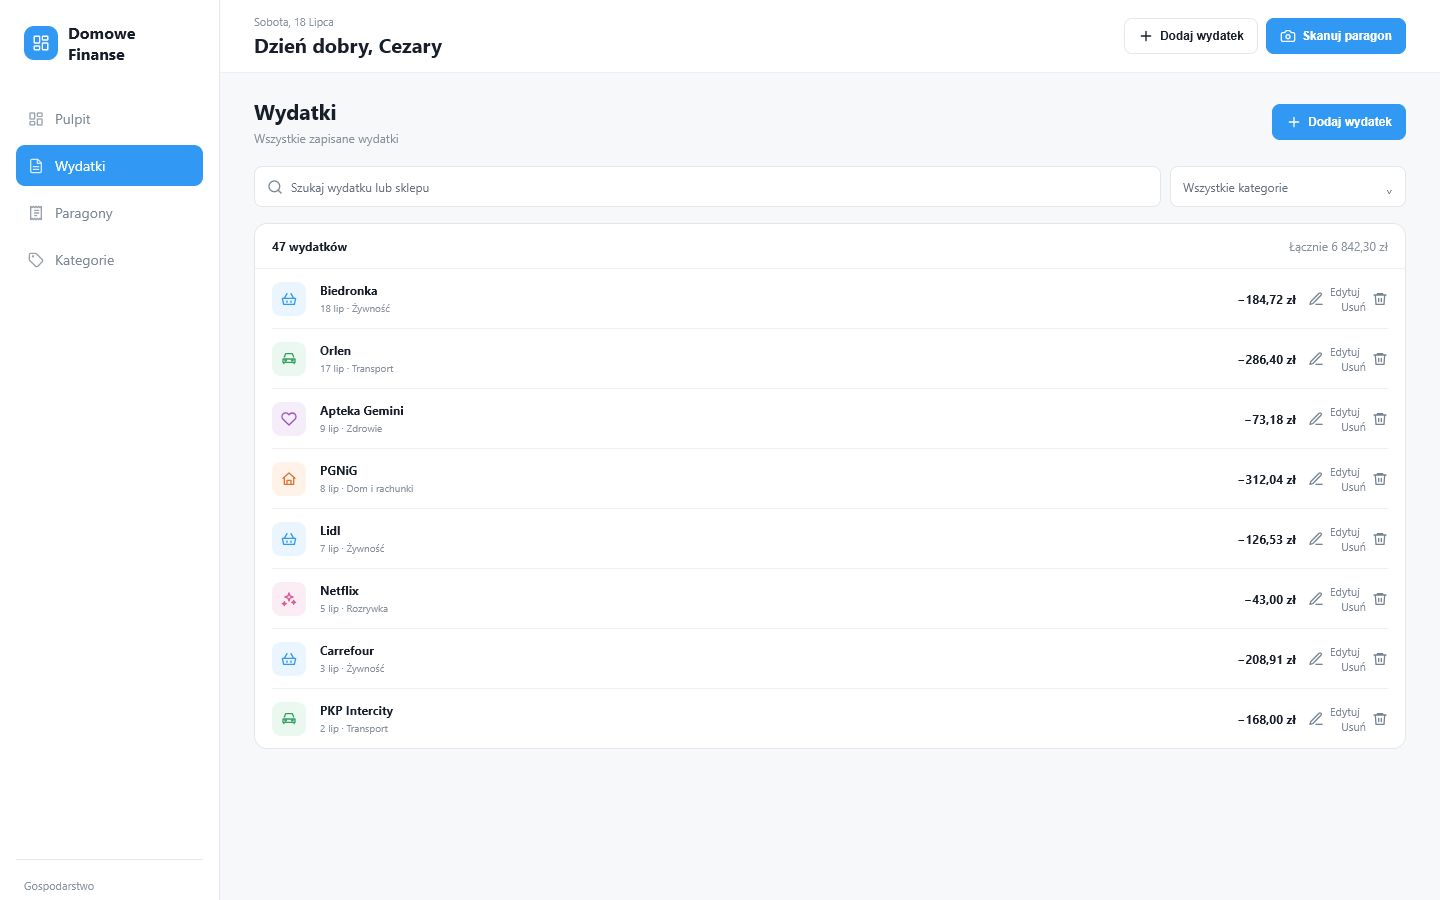
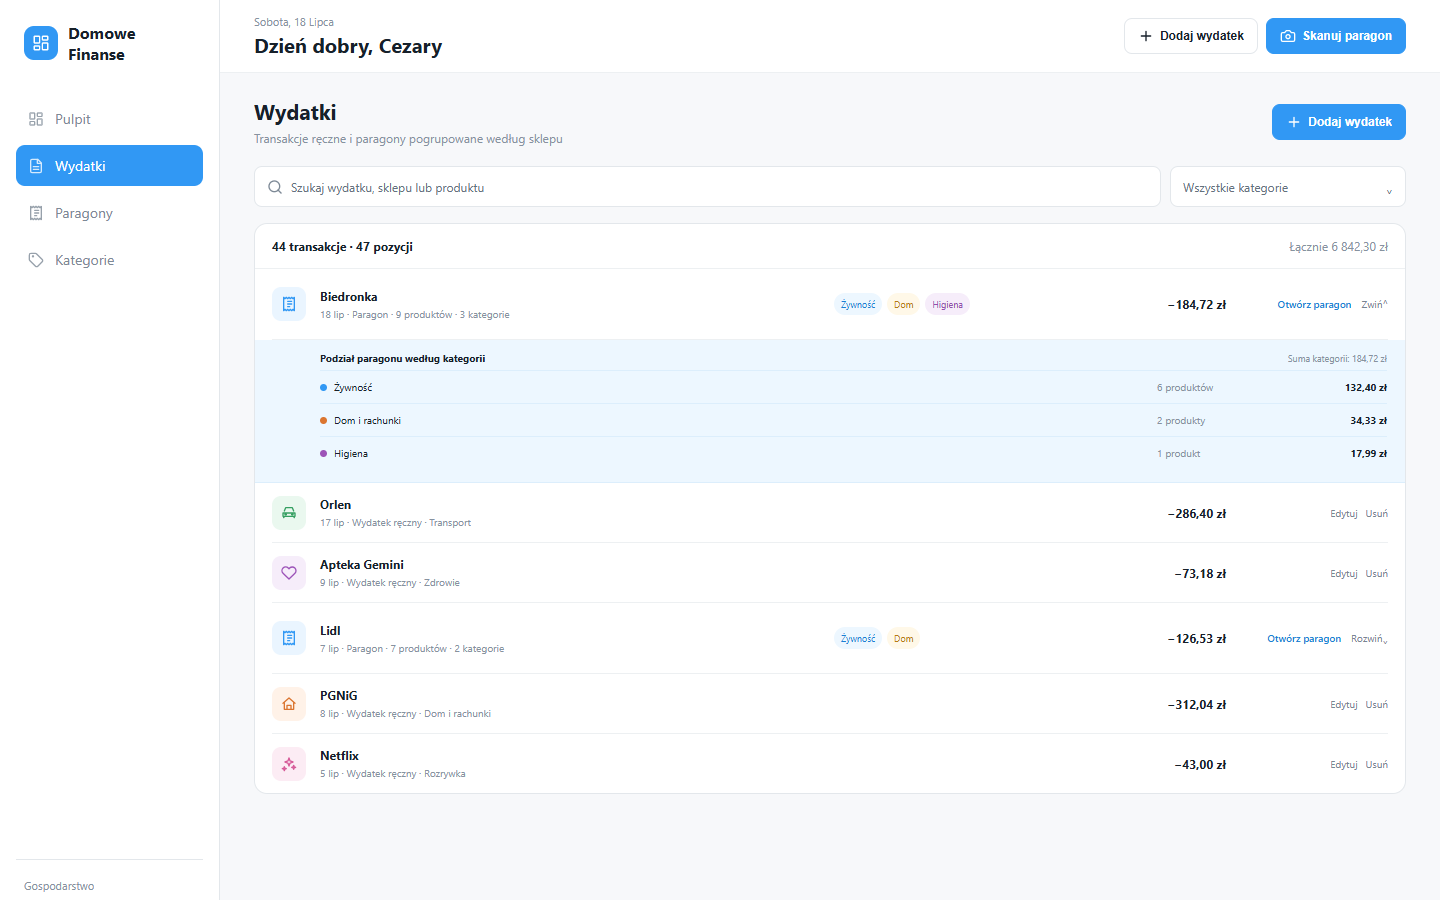
docs: update grouped receipt expense mockups

diff --git a/design/source/domowe-finanse-mockups.html b/design/source/domowe-finanse-mockups.html
@@ -87,6 +87,27 @@
   .panel-header strong { color: var(--ink); }
   .panel .expense-row { margin: 0 17px; }
   .panel .expense-row:last-child { border-bottom: 0; }
+  .receipt-expense { grid-template-columns: 36px minmax(0,1fr) 270px 110px 150px; min-height: 70px; }
+  .receipt-expense .expense-icon::before { mask-image: var(--icon-receipt); }
+  .category-chips { display: flex; flex-wrap: wrap; gap: 5px; }
+  .category-chip { background: var(--blue-soft); border-radius: 999px; color: var(--blue-dark); font-size: 9px; padding: 5px 7px; white-space: nowrap; }
+  .category-chip.home { background: var(--amber-soft); color: var(--amber); }
+  .category-chip.health { background: #f6edfa; color: #9250ae; }
+  .category-chip.more { background: #f0f2f4; color: #697686; }
+  .expense-actions { align-items: center; color: #778593; display: flex; font-size: 10px; gap: 10px; justify-content: flex-end; }
+  .expense-actions strong { color: var(--blue-dark); font-size: 10px; font-weight: 600; }
+  .receipt-breakdown { background: var(--blue-soft); border-bottom: 1px solid #dceefc; padding: 11px 18px 13px 65px; }
+  .breakdown-head { align-items: center; display: flex; justify-content: space-between; margin-bottom: 5px; }
+  .breakdown-head strong { font-size: 10px; }
+  .breakdown-head span { color: var(--muted); font-size: 9px; }
+  .breakdown-row { align-items: center; border-top: 1px solid #dceefc; display: grid; font-size: 10px; grid-template-columns: minmax(0,1fr) 120px 110px; min-height: 32px; }
+  .breakdown-row span:nth-child(2) { color: var(--muted); }
+  .breakdown-row b { font-size: 10px; font-variant-numeric: tabular-nums; text-align: right; }
+  .category-dot { border-radius: 50%; display: inline-block; height: 7px; margin-right: 7px; width: 7px; }
+  .manual-expense { grid-template-columns: 36px minmax(0,1fr) 110px 150px; }
+  .manual-expense .expense-actions { gap: 8px; }
+  .modal-note { align-items: center; background: var(--blue-soft); border-radius: 8px; color: #687687; display: flex; font-size: 10px; gap: 8px; margin-top: 14px; padding: 9px 10px; }
+  .info-mark { align-items: center; background: #8d9aaa; border-radius: 50%; color: #fff; display: inline-flex; flex: 0 0 auto; font-size: 9px; font-weight: 700; height: 16px; justify-content: center; width: 16px; }
   .modal-backdrop { align-items: center; background: rgba(23,32,42,.44); display: flex; inset: 0; justify-content: center; position: absolute; z-index: 5; }
   .modal { background: var(--paper); border-radius: 15px; box-shadow: 0 20px 50px rgba(21,35,50,.2); width: 430px; }
   .modal-head { align-items: center; border-bottom: 1px solid var(--line-soft); display: flex; justify-content: space-between; padding: 18px 20px; }
@@ -237,11 +258,11 @@
 
   <section class="screen" data-document-role="page" data-label="Wydatki — lista">
     <aside class="sidebar"><div class="brand"><span class="brand-mark"></span><span>Domowe<br>Finanse</span></div><nav class="nav"><div class="nav-item"><span class="nav-icon"></span>Pulpit</div><div class="nav-item active"><span class="nav-icon"></span>Wydatki</div><div class="nav-item"><span class="nav-icon"></span>Paragony</div><div class="nav-item"><span class="nav-icon"></span>Kategorie</div></nav><div class="sidebar-bottom"><small>Gospodarstwo</small><strong>Rodzina Kowalskich</strong><span>3 domowników</span></div></aside>
-    <main class="workspace"><header class="topbar"><div class="greeting"><span>Sobota, 18 lipca</span><h1>Dzień dobry, Cezary</h1></div><div class="top-actions"><button class="btn">Dodaj wydatek</button><button class="btn primary">Skanuj paragon</button></div></header><div class="page"><div class="page-title"><div><h2>Wydatki</h2><p>Wszystkie zapisane wydatki</p></div><button class="btn primary">Dodaj wydatek</button></div><div class="toolbar"><div class="input search">Szukaj wydatku lub sklepu</div><div class="input filter">Wszystkie kategorie <span>⌄</span></div></div><section class="panel"><div class="panel-header"><strong>47 wydatków</strong><span>Łącznie 6 842,30 zł</span></div><div class="expense-row"><span class="expense-icon">Ż</span><div><strong>Biedronka</strong><small>18 lip · Żywność</small></div><strong class="amount">−184,72 zł</strong><span class="details">Edytuj&nbsp;&nbsp; Usuń</span></div><div class="expense-row"><span class="expense-icon" style="background:#eaf8ef;color:#359f61">T</span><div><strong>Orlen</strong><small>17 lip · Transport</small></div><strong class="amount">−286,40 zł</strong><span class="details">Edytuj&nbsp;&nbsp; Usuń</span></div><div class="expense-row"><span class="expense-icon" style="background:#f6edfa;color:#9c53b8">Z</span><div><strong>Apteka Gemini</strong><small>9 lip · Zdrowie</small></div><strong class="amount">−73,18 zł</strong><span class="details">Edytuj&nbsp;&nbsp; Usuń</span></div><div class="expense-row"><span class="expense-icon" style="background:#fff2e8;color:#db7530">D</span><div><strong>PGNiG</strong><small>8 lip · Dom i rachunki</small></div><strong class="amount">−312,04 zł</strong><span class="details">Edytuj&nbsp;&nbsp; Usuń</span></div><div class="expense-row"><span class="expense-icon">Ż</span><div><strong>Lidl</strong><small>7 lip · Żywność</small></div><strong class="amount">−126,53 zł</strong><span class="details">Edytuj&nbsp;&nbsp; Usuń</span></div><div class="expense-row"><span class="expense-icon" style="background:#fcecf4;color:#d65a98">R</span><div><strong>Netflix</strong><small>5 lip · Rozrywka</small></div><strong class="amount">−43,00 zł</strong><span class="details">Edytuj&nbsp;&nbsp; Usuń</span></div><div class="expense-row"><span class="expense-icon">Ż</span><div><strong>Carrefour</strong><small>3 lip · Żywność</small></div><strong class="amount">−208,91 zł</strong><span class="details">Edytuj&nbsp;&nbsp; Usuń</span></div><div class="expense-row"><span class="expense-icon" style="background:#eaf8ef;color:#359f61">T</span><div><strong>PKP Intercity</strong><small>2 lip · Transport</small></div><strong class="amount">−168,00 zł</strong><span class="details">Edytuj&nbsp;&nbsp; Usuń</span></div></section></div></main>
+    <main class="workspace"><header class="topbar"><div class="greeting"><span>Sobota, 18 lipca</span><h1>Dzień dobry, Cezary</h1></div><div class="top-actions"><button class="btn">Dodaj wydatek</button><button class="btn primary">Skanuj paragon</button></div></header><div class="page"><div class="page-title"><div><h2>Wydatki</h2><p>Transakcje ręczne i paragony pogrupowane według sklepu</p></div><button class="btn primary">Dodaj wydatek</button></div><div class="toolbar"><div class="input search">Szukaj wydatku, sklepu lub produktu</div><div class="input filter">Wszystkie kategorie <span>⌄</span></div></div><section class="panel"><div class="panel-header"><strong>44 transakcje · 47 pozycji</strong><span>Łącznie 6 842,30 zł</span></div><div class="expense-row receipt-expense"><span class="expense-icon"></span><div><strong>Biedronka</strong><small>18 lip · Paragon · 9 produktów · 3 kategorie</small></div><div class="category-chips"><span class="category-chip">Żywność</span><span class="category-chip home">Dom</span><span class="category-chip health">Higiena</span></div><strong class="amount">−184,72 zł</strong><span class="expense-actions"><strong>Otwórz paragon</strong><span>Zwiń⌃</span></span></div><div class="receipt-breakdown"><div class="breakdown-head"><strong>Podział paragonu według kategorii</strong><span>Suma kategorii: 184,72 zł</span></div><div class="breakdown-row"><span><i class="category-dot" style="background:#3198f4"></i>Żywność</span><span>6 produktów</span><b>132,40 zł</b></div><div class="breakdown-row"><span><i class="category-dot" style="background:#db7530"></i>Dom i rachunki</span><span>2 produkty</span><b>34,33 zł</b></div><div class="breakdown-row"><span><i class="category-dot" style="background:#9c53b8"></i>Higiena</span><span>1 produkt</span><b>17,99 zł</b></div></div><div class="expense-row manual-expense"><span class="expense-icon" style="background:#eaf8ef;color:#359f61">T</span><div><strong>Orlen</strong><small>17 lip · Wydatek ręczny · Transport</small></div><strong class="amount">−286,40 zł</strong><span class="expense-actions"><span>Edytuj</span><span>Usuń</span></span></div><div class="expense-row manual-expense"><span class="expense-icon" style="background:#f6edfa;color:#9c53b8">Z</span><div><strong>Apteka Gemini</strong><small>9 lip · Wydatek ręczny · Zdrowie</small></div><strong class="amount">−73,18 zł</strong><span class="expense-actions"><span>Edytuj</span><span>Usuń</span></span></div><div class="expense-row receipt-expense"><span class="expense-icon"></span><div><strong>Lidl</strong><small>7 lip · Paragon · 7 produktów · 2 kategorie</small></div><div class="category-chips"><span class="category-chip">Żywność</span><span class="category-chip home">Dom</span></div><strong class="amount">−126,53 zł</strong><span class="expense-actions"><strong>Otwórz paragon</strong><span>Rozwiń⌄</span></span></div><div class="expense-row manual-expense"><span class="expense-icon" style="background:#fff2e8;color:#db7530">D</span><div><strong>PGNiG</strong><small>8 lip · Wydatek ręczny · Dom i rachunki</small></div><strong class="amount">−312,04 zł</strong><span class="expense-actions"><span>Edytuj</span><span>Usuń</span></span></div><div class="expense-row manual-expense"><span class="expense-icon" style="background:#fcecf4;color:#d65a98">R</span><div><strong>Netflix</strong><small>5 lip · Wydatek ręczny · Rozrywka</small></div><strong class="amount">−43,00 zł</strong><span class="expense-actions"><span>Edytuj</span><span>Usuń</span></span></div></section></div></main>
   </section>
 
   <section class="screen" data-document-role="page" data-label="Wydatki — dodawanie">
-    <aside class="sidebar"><div class="brand"><span class="brand-mark"></span><span>Domowe<br>Finanse</span></div><nav class="nav"><div class="nav-item"><span class="nav-icon">…7 tokens truncated…ong>Rodzina Kowalskich</strong><span>3 domowników</span></div></aside><main class="workspace"><header class="topbar"><div class="greeting"><span>Sobota, 18 lipca</span><h1>Dzień dobry, Cezary</h1></div><div class="top-actions"><button class="btn">Dodaj wydatek</button><button class="btn primary">Skanuj paragon</button></div></header><div class="page"><div class="page-title"><div><h2>Wydatki</h2><p>Wszystkie zapisane wydatki</p></div><button class="btn primary">Dodaj wydatek</button></div><div class="toolbar"><div class="input search">Szukaj wydatku lub sklepu</div><div class="input filter">Wszystkie kategorie <span>⌄</span></div></div><section class="panel"><div class="panel-header"><strong>47 wydatków</strong><span>Łącznie 6 842,30 zł</span></div><div class="expense-row"><span class="expense-icon">Ż</span><div><strong>Biedronka</strong><small>18 lip · Żywność</small></div><strong class="amount">−184,72 zł</strong><span class="details">Edytuj&nbsp;&nbsp; Usuń</span></div><div class="expense-row"><span class="expense-icon" style="background:#eaf8ef;color:#359f61">T</span><div><strong>Orlen</strong><small>17 lip · Transport</small></div><strong class="amount">−286,40 zł</strong><span class="details">Edytuj&nbsp;&nbsp; Usuń</span></div></section></div></main><div class="modal-backdrop"><section class="modal"><div class="modal-head"><h3>Dodaj wydatek</h3><span>×</span></div><div class="modal-body"><div class="field"><label>Sklep lub opis</label><div class="field-box">Biedronka</div></div><div class="field"><label>Kwota (PLN)</label><div class="field-box">184,72</div></div><div class="field"><label>Kategoria</label><div class="field-box">Żywność</div></div><div class="modal-actions"><button class="btn">Anuluj</button><button class="btn primary">Zapisz wydatek</button></div></div></section></div>
+    <aside class="sidebar"><div class="brand"><span class="brand-mark"></span><span>Domowe<br>Finanse</span></div><nav class="nav"><div class="nav-item"><span class="nav-icon"></span>Pulpit</div><div class="nav-item active"><span class="nav-icon"></span>Wydatki</div><div class="nav-item"><span class="nav-icon"></span>Paragony</div><div class="nav-item"><span class="nav-icon"></span>Kategorie</div></nav><div class="sidebar-bottom"><small>Gospodarstwo</small><strong>Rodzina Kowalskich</strong><span>3 domowników</span></div></aside><main class="workspace"><header class="topbar"><div class="greeting"><span>Sobota, 18 lipca</span><h1>Dzień dobry, Cezary</h1></div><div class="top-actions"><button class="btn">Dodaj wydatek</button><button class="btn primary">Skanuj paragon</button></div></header><div class="page"><div class="page-title"><div><h2>Wydatki</h2><p>Transakcje ręczne i paragony pogrupowane według sklepu</p></div><button class="btn primary">Dodaj wydatek</button></div><div class="toolbar"><div class="input search">Szukaj wydatku, sklepu lub produktu</div><div class="input filter">Wszystkie kategorie <span>⌄</span></div></div><section class="panel"><div class="panel-header"><strong>44 transakcje · 47 pozycji</strong><span>Łącznie 6 842,30 zł</span></div><div class="expense-row receipt-expense"><span class="expense-icon"></span><div><strong>Biedronka</strong><small>18 lip · Paragon · 9 produktów · 3 kategorie</small></div><div class="category-chips"><span class="category-chip">Żywność</span><span class="category-chip home">Dom</span><span class="category-chip health">Higiena</span></div><strong class="amount">−184,72 zł</strong><span class="expense-actions"><strong>Otwórz paragon</strong><span>Rozwiń⌄</span></span></div><div class="expense-row manual-expense"><span class="expense-icon" style="background:#eaf8ef;color:#359f61">T</span><div><strong>Orlen</strong><small>17 lip · Wydatek ręczny · Transport</small></div><strong class="amount">−286,40 zł</strong><span class="expense-actions"><span>Edytuj</span><span>Usuń</span></span></div></section></div></main><div class="modal-backdrop"><section class="modal"><div class="modal-head"><h3>Dodaj wydatek ręczny</h3><span>×</span></div><div class="modal-body"><div class="modal-note"><span class="info-mark">i</span><span>Paragon z wieloma produktami dodaj przez „Skanuj paragon”.</span></div><div class="field"><label>Sklep lub opis</label><div class="field-box">Biedronka</div></div><div class="field"><label>Kwota (PLN)</label><div class="field-box">184,72</div></div><div class="field"><label>Data</label><div class="field-box">18.07.2026</div></div><div class="field"><label>Kategoria wydatku</label><div class="field-box">Żywność</div></div><div class="modal-actions"><button class="btn">Anuluj</button><button class="btn primary">Zapisz wydatek</button></div></div></section></div>
   </section>
 
   <section class="screen" data-document-role="page" data-label="Paragony — weryfikacja">

diff --git a/design/README.md b/design/README.md
@@ -21,6 +21,13 @@
 | Kategorie — lista | [`mockups/07-kategorie-lista.png`](mockups/07-kategorie-lista.png) |
 | Kategorie — edycja | [`mockups/08-kategorie-edycja.png`](mockups/08-kategorie-edycja.png) |
 
+Widok **Wydatki — lista** rozróżnia obecnie dwa typy zapisów:
+
+- wydatek ręczny — pojedyncza transakcja przypisana do jednej kategorii;
+- paragon — jedna transakcja sklepu, którą można rozwinąć do podsumowań kategorii wyliczonych z produktów.
+
+Paragon nie jest rozbijany na niezależne wydatki. Dzięki temu jego kwota całkowita pozostaje jednym zapisem, a rozwinięcie pokazuje kontrolowany podział bez ryzyka podwójnego zliczania.
+
 ## Canva
 
 Canva jest edytowalną kopią roboczą i miejscem do przeglądu wizualnego. Nie zastępuje źródeł przechowywanych w repozytorium.